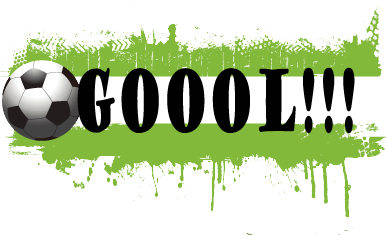
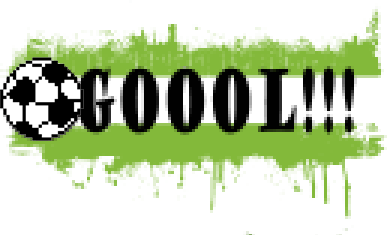
aspecto 8bis

diff --git a/javascript/game.js b/javascript/game.js
@@ -68,16 +68,16 @@ const game = {
     },
 
     createBackground() {
-        this.background = new Background(this.ctx, 0, 0, this.canvasSize.width, this.canvasSize.height, "background1.png")
+        this.background = new Background(this.ctx, 0, 0, this.canvasSize.width, this.canvasSize.height, "backgroundGame.png")
     },
 
     createBall() {
-        this.ball = new Ball(this.ctx, this.canvasSize, 400, 0, "ball1.png")
+        this.ball = new Ball(this.ctx, this.canvasSize, 375, 0, "pelota1.png")
     },
 
     createGKeeper() {
 
-        this.goalKeeper = new Goalkeeper(this.ctx, this.canvasSize, 350, 150, "goalkeeper.png")
+        this.goalKeeper = new Goalkeeper(this.ctx, this.canvasSize, 350, 150, "portero inicial.png")
     },
 
 

diff --git a/javascript/ball.js b/javascript/ball.js
@@ -1,5 +1,5 @@
 class Ball {
-    constructor(ctx, canvasSize, posX, posY, imageName, width = 50, height = 50, speedX = 0, speedY = 10) {
+    constructor(ctx, canvasSize, posX, posY, imageName, width = 60, height = 60, speedX = 0, speedY = 10) {
         this.ctx = ctx
         this.canvasSize = canvasSize
 
